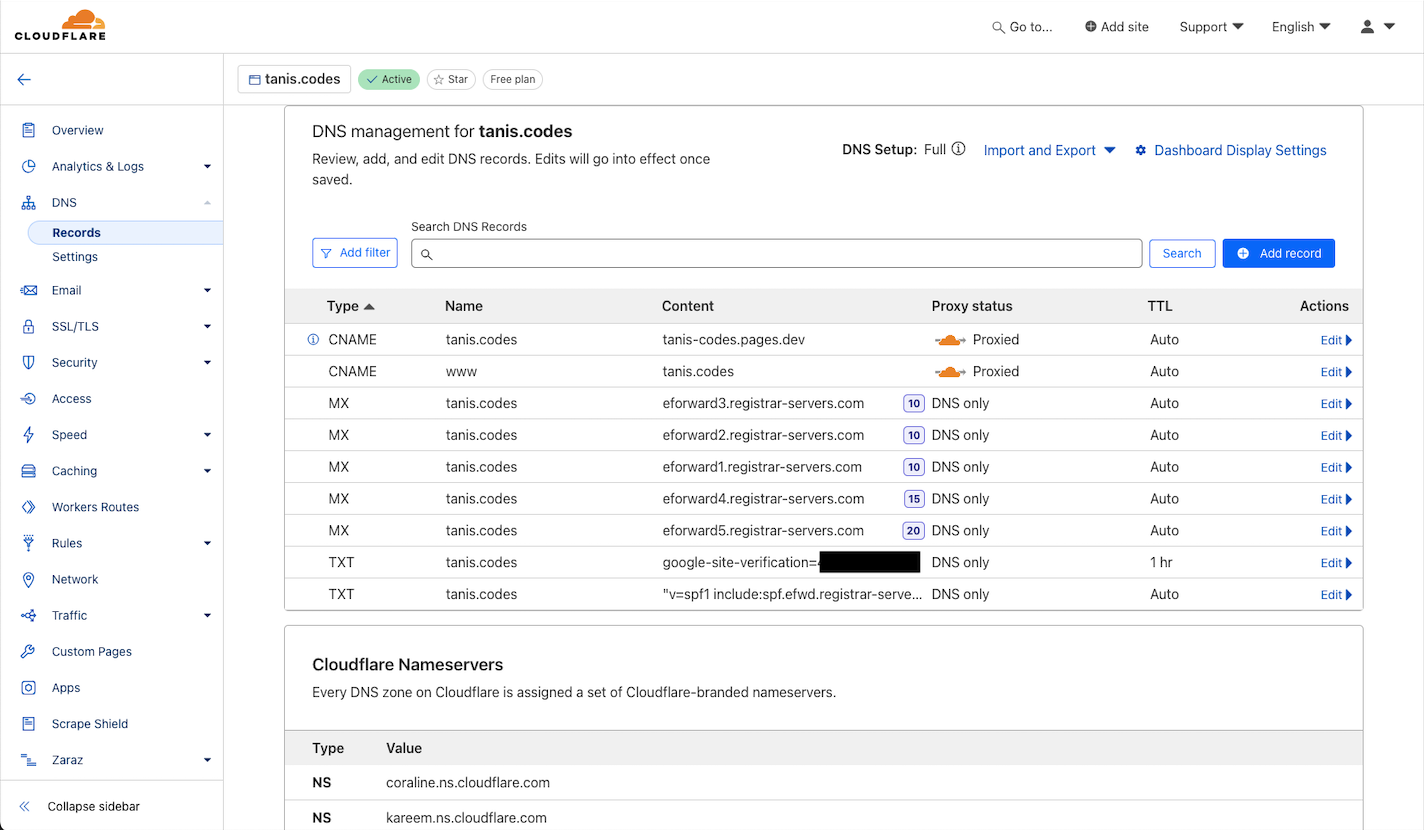
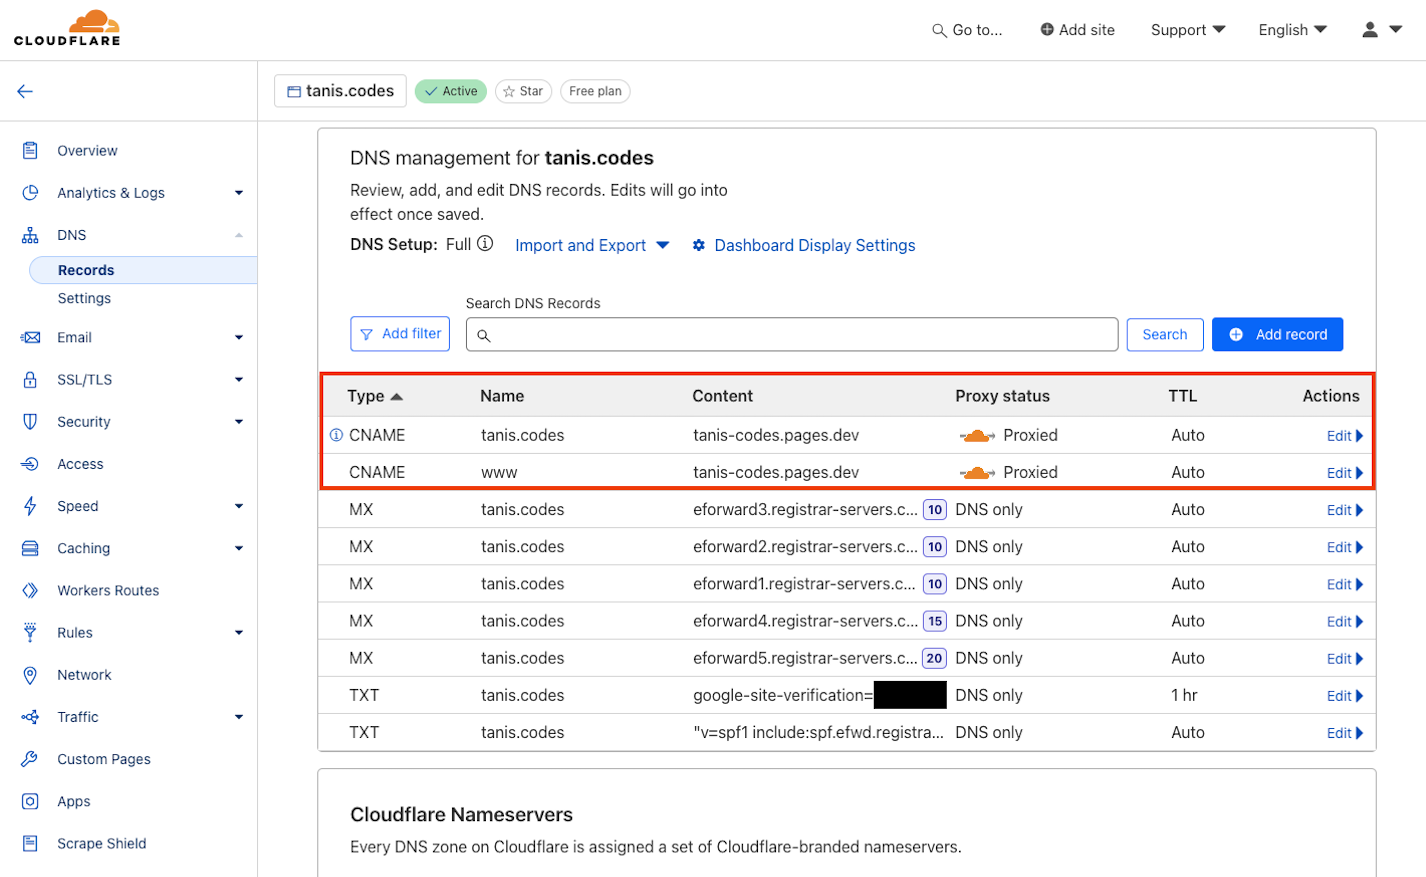
Finish the article

diff --git a/content/posts/deploy-hugo-website-to-cloudflare.md b/content/posts/deploy-hugo-website-to-cloudflare.md
@@ -1,7 +1,7 @@
 ---
 title: "Deploy a Hugo website to Cloudflare"
-date: 2024-08-27T14:09:14+01:00
-draft: true
+date: 2024-09-08T14:51:14+01:00
+draft: false
 toc: false
 image: "/images/deploy-hugo-website-to-cloudflare/logo.png"
 description: "Cloudflare allow us to deploy and serve static websites for free using a GitHub or GitLab repository. Each commit will trigger an automatic build process on Cloudflare."
@@ -133,12 +133,19 @@ sudo dscacheutil -flushcache; sudo killall -HUP mDNSResponder
 
 ![Custom DNS active](/images/deploy-hugo-website-to-cloudflare/custom-dns-active.png)
 
-## Add www DNS record
+## Add the www DNS record
+
+For SEO purposes, it's beneficial to make the website accessible with `www.` before the domain. This can be configured in the `DNS > Records` section.
+
+In this section, add a new `CNAME` record with `www` as the name and `tanis-codes.pages.dev` as the target. Set the proxy status to **DNS only**. This ensures that requests are routed to Render, allowing them to verify the domain and issue a certificate.
+
+Finally, click the `Save` button.
 
 ![Add www DNS record](/images/deploy-hugo-website-to-cloudflare/add-www-record.png)
 
-![DNS management records](/images/deploy-hugo-website-to-cloudflare/dns-management-records.png)
+The DNS record will be added, but it may take some time for the changes to propagate globally. You might need to flush your local DNS cache to see the updates.
 
+![DNS management records](/images/deploy-hugo-website-to-cloudflare/dns-management-records.png)
 
 ## References
 
